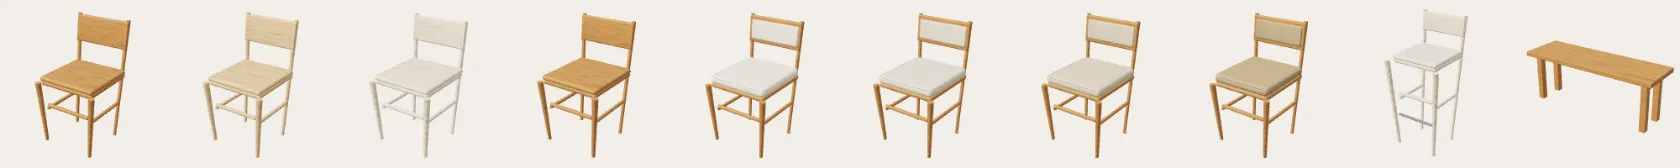
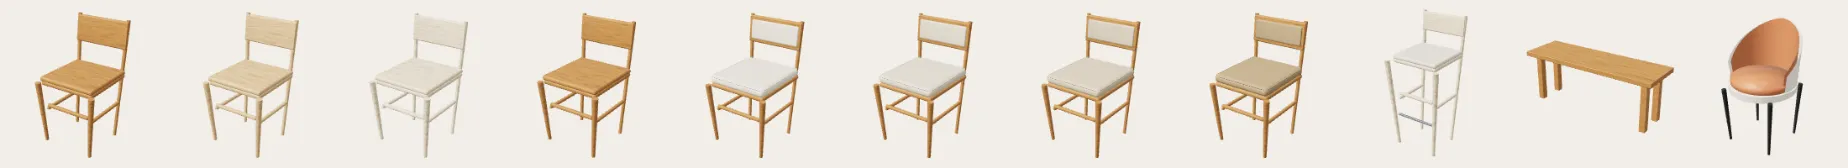
新增岩板餐桌（板式桌腳，預設擺玻璃花瓶插枝葉、托盤擺飾）與皮革扶手餐椅
Claude-Session: https://claude.ai/code/session_01DPbMHcao9tPiyFSu6sUn7z

Changed region(s): [[0.0, 0.0595, 1.0, 0.9226], [0.8357, 0.0893, 0.8976, 0.2083]]

diff --git a/js/models.js b/js/models.js
@@ -1,8 +1,8 @@
 // 以程式產生的 3D 家具模型。每件家具都依型錄的實際尺寸（cm）建模，再整體縮成公尺。
 import * as THREE from 'three';
 import { RoundedBoxGeometry } from '../vendor/RoundedBoxGeometry.js';
-import { WOODS, FINISH } from './catalog.js?v=20261118b';
-import * as MT from './mats.js?v=20261118b';
+import { WOODS, FINISH } from './catalog.js?v=20261118c';
+import * as MT from './mats.js?v=20261118c';
 
 function rnd(seed) { let s = seed; return () => (s = (s * 16807) % 2147483647) / 2147483647; }
 function shade(hex, f) { const c = new THREE.Color(hex); c.multiplyScalar(f); return '#' + c.getHexString(); }
@@ -711,8 +711,55 @@ function vase(g, x, y, z, s = 1, color = '#D9D2C4', stems = 0) {
 }
 function books(g, x, y, z, n = 3, ry = 0) { for (let i = 0; i < n; i++) rbox(g, 26 - i * 2, 2.6, 19 - i, MT.flat(['#E9E2D6', '#5E6B7A', '#C9B8A0', '#7C8471'][i % 4], 0.85), x, y + 1.3 + i * 2.6, z, 0.5).rotation.y = ry + i * 0.13; }
 
+// ── 岩板餐桌（參考實景）：圓角白岩板桌面＋深灰薄邊、深灰圓弧板式桌腳；桌上預設放玻璃花瓶插枝葉、托盤擺飾
+function rrShape(w, d, r) { const s = new THREE.Shape(), x = w / 2, z = d / 2; r = Math.min(r, x - 0.1, z - 0.1); s.moveTo(-x + r, -z); s.lineTo(x - r, -z); s.quadraticCurveTo(x, -z, x, -z + r); s.lineTo(x, z - r); s.quadraticCurveTo(x, z, x - r, z); s.lineTo(-x + r, z); s.quadraticCurveTo(-x, z, -x, z - r); s.lineTo(-x, -z + r); s.quadraticCurveTo(-x, -z, -x + r, -z); return s; }
+function slabXZ(g, shape, t, m, y) { const geo = new THREE.ExtrudeGeometry(shape, { depth: t, bevelEnabled: true, bevelSize: Math.min(0.6, t * 0.3), bevelThickness: Math.min(0.6, t * 0.3), bevelSegments: 2, curveSegments: 10 }); geo.rotateX(Math.PI / 2); return mesh(g, geo, m, 0, y + t, 0); }
+function branchTree(g, x, y, z, H, seed = 1) {
+  let rs = seed * 9301 + 49297; const rnd = () => ((rs = (rs * 9301 + 49297) % 233280) / 233280);
+  const bark = MT.flat('#5B4636', 0.85), up = new THREE.Vector3(0, 1, 0), leaves = [];
+  const seg = (p0, dir, len, r, dep) => {
+    const p1 = p0.clone().addScaledVector(dir, len), m = mesh(g, new THREE.CylinderGeometry(r * 0.72, r, len, 6), bark, (p0.x + p1.x) / 2, (p0.y + p1.y) / 2, (p0.z + p1.z) / 2); m.quaternion.setFromUnitVectors(up, dir); m.castShadow = true;
+    if (dep <= 3) for (let k = 0; k < (dep === 0 ? 12 : dep === 1 ? 9 : 5); k++) { const t = 0.25 + rnd() * 0.75; leaves.push([p0.clone().lerp(p1, t).add(new THREE.Vector3((rnd() - 0.5) * 7, (rnd() - 0.3) * 5, (rnd() - 0.5) * 7)), rnd() * 6.28, rnd()]); }
+    if (dep === 0) return;
+    const n = dep >= 3 ? 2 : 3;
+    for (let k = 0; k < n; k++) { const a = rnd() * 6.28, sp = 0.55 + rnd() * 0.6, nd = dir.clone().multiplyScalar(1.1).add(new THREE.Vector3(Math.cos(a) * sp, 0.25, Math.sin(a) * sp)).normalize(); seg(p1, nd, len * (0.74 + rnd() * 0.16), r * 0.64, dep - 1); }
+  };
+  seg(new THREE.Vector3(x, y, z), new THREE.Vector3(0.18, 1, 0.06).normalize(), H * 0.3, 1.4, 4);
+  const lg = new THREE.PlaneGeometry(3.6, 1.8); lg.translate(1.8, 0, 0);
+  const im = new THREE.InstancedMesh(lg, twoSided(MT.flat('#FFFFFF', 0.7)), leaves.length), o = new THREE.Object3D(), col = new THREE.Color();
+  leaves.forEach(([p, a, t], i) => { o.position.copy(p); o.rotation.set((t - 0.5) * 1.6, a, -0.4 + t * 0.8); o.scale.setScalar(0.8 + t * 0.5); o.updateMatrix(); im.setMatrixAt(i, o.matrix); im.setColorAt(i, col.set(t > 0.6 ? '#8CC152' : t > 0.3 ? '#5E9A38' : '#4C7F2E')); });
+  im.castShadow = true; g.add(im);
+}
+function slabTable(g, it, o) {
+  const { w, d, h } = it, f = it.color && it.color[0] === '#' ? it.color : '#EFEBE5';
+  const top = it.fin === 'wood' ? MT.wood(f, { rings: 6, gloss: 0.45 }) : it.fin === 'paint' ? MT.gloss(f) : MT.marble(f), base = MT.flat('#55575A', 0.42);
+  slabXZ(g, rrShape(w, d, 11), 2, top, h - 2.6); slabXZ(g, rrShape(w - 1.2, d - 1.2, 10.5), 0.9, MT.flat('#3A3B3D', 0.4), h - 3.6);
+  const bw = w * 0.56, bd = Math.max(26, d * 0.36); slabXZ(g, rrShape(bw, bd, bd / 2 - 0.2), h - 4.2, base, 0);
+  if (!o.decor) return;
+  // 玻璃花瓶＋枝葉
+  const vx = -w * 0.14, vz = -d * 0.05, vh = 40;
+  lathe(g, [[0, 0], [6.5, 0], [7, 2], [7, 4], [6.2, 5], [6.4, vh * 0.55], [6.6, vh - 1], [7, vh]], MT.flat('#7E4A3C', 0.12), vx, h, vz);
+  cyl(g, 7.2, 7.2, 1.2, MT.flat('#7A4A3C', 0.3), vx, h + 3.2, vz, 24); cyl(g, 7.4, 7.4, 1, MT.flat('#7A4A3C', 0.3), vx, h + 6, vz, 24);
+  branchTree(g, vx, h + 4, vz, Math.min(150, 270 - h - 50), 7);
+  // 托盤＋書＋小白公仔
+  const tx = w * 0.3, tz = -d * 0.12; rbox(g, 28, 1.2, 20, MT.flat('#2A2B2D', 0.4), tx, h + 0.6, tz, 0.5).rotation.y = 0.18;
+  rbox(g, 22, 2.6, 16, MT.flat('#EDE6D8', 0.8), tx, h + 2.5, tz, 0.4).rotation.y = 0.12; rbox(g, 20, 2, 14, MT.flat('#8E9AA6', 0.8), tx, h + 4.8, tz, 0.4).rotation.y = 0.24;
+  const fig = MT.flat('#F2F0EC', 0.45), fy = h + 5.8; rbox(g, 5, 7, 3.6, fig, tx, fy + 3.5, tz, 1.6); mesh(g, new THREE.SphereGeometry(3.6, 18, 14), fig, tx, fy + 10, tz); for (const sx of [-1, 1]) { mesh(g, new THREE.SphereGeometry(1.4, 12, 10), fig, tx + sx * 2.8, fy + 13, tz); rbox(g, 1.8, 6, 1.8, fig, tx + sx * 3.4, fy + 3.6, tz, 0.8).rotation.z = sx * 0.3; }
+}
+// ── 皮革扶手餐椅（參考實景）：米白外殼包著焦糖色皮革內襯，椅背往前慢慢降低成扶手；深色細腳＋銅色腳套
+function shellChair(g, it, o) {
+  const { w, d, h } = it, inC = it.fin && it.color && it.color[0] === '#' ? it.color : '#B8714A', inner = it.fin === 'fabric' ? MT.fabric(inC, 2) : MT.leather(inC), outer = MT.leather('#ECE5D9'), leg = MT.flat('#2A2A2C', 0.4), sh = 46, R = w / 2 - 1, zc = -d / 2 + R + 1;
+  for (const sx of [-1, 1]) for (const sz of [-1, 1]) tleg(g, sh - 5, 1.7, 0.9, leg, sx * (w / 2 - 10), zc + sz * (R - 10) + (sz > 0 ? 2 : 0), 0.06, BRASSY());
+  const shell = (r, mat, t0) => { const span = Math.PI * 1.22, H = h - sh + 6, geo = new THREE.CylinderGeometry(r, r * 0.9, H, 40, 8, true, Math.PI - span / 2, span), p = geo.attributes.position;
+    for (let i = 0; i < p.count; i++) { const x = p.getX(i), z = p.getZ(i), y = p.getY(i) + H / 2, a = Math.abs(Math.atan2(x, -z)) / (span / 2), k = 1 - 0.62 * Math.pow(a, 1.6); p.setY(i, y * k); p.setZ(i, z * (1 + 0.04 * y / H)); }
+    geo.computeVertexNormals(); return mesh(g, geo, twoSided(mat), 0, sh - 6 + t0, zc); };
+  shell(R, outer, 0); shell(R - 2.2, inner, 0.5);
+  const sg = new THREE.CylinderGeometry(R - 1, R - 2, 5, 40, 1, false); sg.scale(1, 1, (d - 4) / (2 * R)); mesh(g, sg, outer, 0, sh - 4, zc + 1);
+  const cu = new THREE.CylinderGeometry(R - 3, R - 3, 5, 40); cu.scale(1, 1, (d - 8) / (2 * R)); const c = mesh(g, cu, inner, 0, sh + 0.5, zc + 2); c.geometry = smooth(c.geometry);
+}
 B.table = (g, it, P, o) => {
   const { w, d, v } = it; if (v === 'stoolseat' || v === 'fmirror') return OLD.table(g, it, P);
+  if (v === 'slab') return slabTable(g, it, o);
   const h = v === 'mirror' ? 75 : it.h, f = it.color, marble = f === 'marble', painted = f === 'white' || f === 'black' || f === 'gray', low = h < 62;
   let top = marble ? MT.marble('#EFEBE5') : painted ? MT.gloss(WOODS[f]) : MT.wood(WOODS[f] || WOODS.oak, { rings: 6, gloss: 0.45 }), lg = marble ? BRASSY() : f === 'black' ? MT.metal('#1E1E20', 0.45) : woodOf(f);
   if (f && f[0] === '#' && (it.fin === 'wood' || it.fin === 'paint' || it.fin === 'marble')) {   // 手機上個別選的桌面材質＋顏色
@@ -745,6 +792,7 @@ B.table = (g, it, P, o) => {
 
 B.chair = (g, it, P, o) => {
   const { w, d, h, v } = it; if (v === 'bench') return OLD.chair(g, it, P);
+  if (v === 'shell') return shellChair(g, it, o);
   const hexc = it.color && it.color[0] === '#', pick = hexc && (it.fin === 'wood' || it.fin === 'paint' || it.fin === 'fabric');
   let wm = hexc ? woodOf(P.wood) : woodOf(it.color), f = MT.fabric(hexc ? it.color : '#D9D3C6', 2, 'boucle'); const sh = v === 'bar' ? 71 : 44.5;
   if (pick) { wm = it.fin === 'wood' ? MT.wood(it.color, { rings: 6, gloss: 0.35 }) : it.fin === 'paint' ? MT.gloss(it.color) : MT.fabric(it.color, 2, 'boucle'); f = it.fin === 'fabric' ? wm : MT.fabric(shade(it.color, 1.12), 2, 'boucle'); }   // 整張椅子同一個顏色

diff --git a/js/plan.js b/js/plan.js
@@ -1,9 +1,9 @@
 // 新板東京 A1（11F）：依平面圖描出的牆、窗、地坪（單位 cm）
-import { PLAN_HH } from './plan-hh.js?v=20261118b';
-import { PLAN_XS } from './plan-xs.js?v=20261118b';
-import { PLAN_WX_A1 } from './plan-wx-a1.js?v=20261118b';
-import { PLAN_WX_A2 } from './plan-wx-a2.js?v=20261118b';
-import { PLAN_WX_B1 } from './plan-wx-b1.js?v=20261118b';
+import { PLAN_HH } from './plan-hh.js?v=20261118c';
+import { PLAN_XS } from './plan-xs.js?v=20261118c';
+import { PLAN_WX_A1 } from './plan-wx-a1.js?v=20261118c';
+import { PLAN_WX_A2 } from './plan-wx-a2.js?v=20261118c';
+import { PLAN_WX_B1 } from './plan-wx-b1.js?v=20261118c';
 
 const PLAN_A1 = {"H":280,"W":1248,"D":909.3,"walls":[[108.0,0.0,232.0,16.0,0,280],[232.0,0.0,372.0,16.0,0,70],[232.0,0.0,372.0,16.0,240,280],[372.0,0.0,461.3,16.0,0,280],[461.3,0.0,641.3,16.0,0,70],[461.3,0.0,641.3,16.0,240,280],[641.3,0.0,725.3,16.0,0,280],[725.3,0.0,905.3,16.0,0,70],[725.3,0.0,905.3,16.0,240,280],[905.3,0.0,1028.0,16.0,0,280],[108.0,0.0,205.3,106.7,0,280],[925.3,0.0,1028.0,96.0,0,280],[108.0,846.7,208.0,909.3,0,280],[928.0,846.7,1028.0,909.3,0,280],[108.0,106.7,125.3,329.3,0,280],[0.0,329.3,14.7,346.7,0,280],[14.7,329.3,78.7,346.7,0,120],[14.7,329.3,78.7,346.7,180,280],[0.0,346.7,14.7,669.3,0,280],[158.7,426.7,172.0,606.7,0,280],[172.0,426.7,561.3,440.0,0,280],[238.7,440.0,245.3,606.7,0,280],[548.0,440.0,558.7,520.0,0,280],[548.0,520.0,558.7,606.7,210,280],[554.7,326.7,565.3,426.7,210,280],[436.0,16.0,448.0,316.0,0,280],[436.0,316.0,561.3,326.7,0,280],[561.3,316.0,648.0,326.7,210,280],[648.0,16.0,661.3,326.7,0,280],[14.7,606.7,245.3,620.0,0,280],[245.3,606.7,265.3,620.0,0,280],[265.3,606.7,352.0,620.0,210,280],[368.0,606.7,561.3,620.0,0,280],[561.3,606.7,648.0,620.0,210,280],[648.0,606.7,661.3,620.0,0,280],[661.3,606.7,734.7,620.0,210,280],[734.7,606.7,832.0,620.0,0,280],[354.7,620.0,368.0,689.3,0,280],[354.7,689.3,368.0,826.7,0,70],[354.7,689.3,368.0,826.7,240,280],[354.7,826.7,368.0,893.3,0,280],[648.0,620.0,661.3,893.3,0,280],[818.7,620.0,832.0,893.3,0,280],[208.0,893.3,928.0,909.3,0,280],[1028.0,893.3,1248.0,909.3,0,280],[948.0,96.0,968.0,726.7,0,280],[968.0,709.3,1248.0,726.7,0,280],[1234.7,726.7,1248.0,740.0,0,280],[1234.7,740.0,1248.0,846.7,210,280],[1234.7,846.7,1248.0,893.3,0,280],[108.0,620.0,116.0,846.7,0,110],[8.0,661.3,108.0,669.3,0,110],[78.7,329.3,185.3,346.7,0,280],[172.0,346.7,185.3,426.7,210,280],[352.0,606.7,368.0,620.0,0,280]],"cuts":[[25],[28],[26,27],[20],[21],[22,23],[32]],"wins":[[232.0,0.0,372.0,16.0,70,240],[461.3,0.0,641.3,16.0,70,240],[725.3,0.0,905.3,16.0,70,240],[14.7,329.3,78.7,346.7,120,180],[354.7,689.3,368.0,826.7,70,240]],"floors":[[125.3,16.0,436.0,326.7,"main"],[185.3,326.7,561.3,426.7,"main"],[448.0,16.0,648.0,316.0,"main"],[561.3,316.0,648.0,326.7,"main"],[661.3,16.0,948.0,326.7,"main"],[561.3,326.7,948.0,620.0,"main"],[832.0,620.0,948.0,893.3,"main"],[368.0,620.0,648.0,893.3,"main"],[548.0,520.0,558.7,606.7,"main"],[14.7,346.7,158.7,606.7,"bath"],[661.3,620.0,818.7,893.3,"bath"],[172.0,440.0,238.7,606.7,"main"],[245.3,440.0,548.0,606.7,"main"],[948.0,726.7,1234.7,893.3,"main"],[116.0,620.0,354.7,893.3,"balc"],[8.0,620.0,108.0,661.3,"balc"],[265.3,606.7,352.0,620.0,"balc"],[158.7,346.7,172.0,426.7,"bath"],[172.0,346.7,185.3,426.7,"main"]],"slab":[[108.0,0.0,968.0,909.3],[0.0,329.3,108.0,669.3],[968.0,709.3,1248.0,909.3]],"rooms":[{"id":"ld","n":"客餐廳","rs":[[661.3,16.0,948.0,326.7],[561.3,326.7,948.0,620.0]],"r":[561.3,16.0,948.0,620.0]},{"id":"master","n":"主臥","rs":[[125.3,16.0,436.0,326.7],[172.0,326.7,561.3,426.7]],"r":[125.3,16.0,561.3,426.7]},{"id":"bed2","n":"臥室 2","rs":[[448.0,16.0,648.0,326.7]],"r":[448.0,16.0,648.0,326.7]},{"id":"bed3","n":"臥室 3","rs":[[368.0,620.0,648.0,893.3]],"r":[368.0,620.0,648.0,893.3]},{"id":"kitchen","n":"廚房","rs":[[172.0,440.0,558.7,606.7]],"r":[172.0,440.0,558.7,606.7]},{"id":"bath1","n":"主臥衛浴","rs":[[14.7,346.7,172.0,606.7]],"r":[14.7,346.7,172.0,606.7]},{"id":"bath2","n":"客用衛浴","rs":[[661.3,620.0,818.7,893.3]],"r":[661.3,620.0,818.7,893.3]},{"id":"foyer","n":"玄關","rs":[[832.0,620.0,948.0,893.3],[948.0,726.7,1234.7,893.3]],"r":[832.0,620.0,1234.7,893.3]},{"id":"balcony","n":"陽台","rs":[[116.0,620.0,354.7,893.3]],"r":[116.0,620.0,354.7,893.3]}],"defaults":[{"id":"d0","key":"sofa:5","x":900.0,"y":242.7,"r":90},{"id":"d1","key":"coffee:0","x":778.7,"y":242.7,"r":0},{"id":"d2","key":"tvcab:3","x":681.3,"y":233.3,"r":270},{"id":"d3","key":"tv:4","x":666.7,"y":233.3,"r":270},{"id":"d4","key":"rug:2","x":805.3,"y":242.7,"r":90},{"id":"d5","key":"lamp:0","x":925.3,"y":109.3,"r":0},{"id":"d6","key":"plant:3","x":921.3,"y":389.3,"r":0},{"id":"d7","key":"dtable:4","x":793.3,"y":478.7,"r":0},{"id":"d8","key":"chair:0","x":756.0,"y":420.0,"r":0},{"id":"d9","key":"chair:0","x":836.0,"y":420.0,"r":0},{"id":"d10","key":"chair:0","x":756.0,"y":556.0,"r":180},{"id":"d11","key":"chair:0","x":836.0,"y":556.0,"r":180},{"id":"d12","key":"bed:3","x":225.3,"y":189.3,"r":270},{"id":"d13","key":"nstand:1","x":148.0,"y":293.3,"r":270},{"id":"d14","key":"ward:1","x":406.7,"y":166.7,"r":90},{"id":"d15","key":"bed:1","x":505.3,"y":116.0,"r":0},{"id":"d16","key":"desk:1","x":617.3,"y":93.3,"r":90},{"id":"d17","key":"dchair:0","x":572.0,"y":93.3,"r":270},{"id":"d18","key":"shelf:1","x":632.0,"y":240.0,"r":90},{"id":"d19","key":"bed:3","x":548.0,"y":806.7,"r":90},{"id":"d20","key":"desk:1","x":398.7,"y":757.3,"r":270},{"id":"d21","key":"dchair:1","x":436.0,"y":757.3,"r":90},{"id":"d22","key":"ward:3","x":412.0,"y":862.7,"r":180},{"id":"d23","key":"cook:0","x":289.3,"y":470.7,"r":0},{"id":"d24","key":"hood:1","x":289.3,"y":465.3,"r":0},{"id":"d25","key":"kcab:2","x":357.3,"y":470.7,"r":0},{"id":"d26","key":"sink:2","x":426.7,"y":470.7,"r":0},{"id":"d27","key":"fridge:2","x":512.0,"y":477.3,"r":0},{"id":"d28","key":"tub:2","x":85.3,"y":570.7,"r":0},{"id":"d29","key":"toilet:1","x":50.7,"y":476.0,"r":270},{"id":"d30","key":"vanity:0","x":38.7,"y":384.0,"r":270},{"id":"d31","key":"mirror:0","x":22.7,"y":384.0,"r":270},{"id":"d32","key":"tub:3","x":740.0,"y":858.7,"r":0},{"id":"d33","key":"toilet:1","x":782.7,"y":720.0,"r":90},{"id":"d34","key":"vanity:0","x":788.0,"y":645.3,"r":0},{"id":"d35","key":"mirror:0","x":788.0,"y":628.0,"r":0},{"id":"d36","key":"washer:0","x":208.0,"y":656.0,"r":0},{"id":"d37","key":"shoe:4","x":1098.7,"y":746.7,"r":0},{"id":"d38","key":"plant:1","x":1205.3,"y":873.3,"r":0}],"door":[1237.3,740.0,1245.3,846.7],"start":[1175,793],"doors":[[1234.7,740.0,106.7,90,180],[648.0,321.3,86.7,180,270],[560.0,426.7,100.0,270,180],[553.3,606.7,86.7,270,180],[178.7,349.3,74.7,90,180],[352.0,613.3,86.7,180,90],[648.0,613.3,86.7,180,90],[661.3,613.3,73.3,0,90]]};
 

diff --git a/js/phone.js b/js/phone.js
@@ -1,7 +1,7 @@
 // 手機端：風格、平面圖編輯器、3D 家具型錄、人偶、3D 導覽搖桿
-import { PLAN, UNIT, setUnit, roomAt, setCuts, cutRects } from './plan.js?v=20261118b';
-import { CATS, GROUPS, PEOPLE, getItem, STYLES, FLOOR_GROUPS, FLOORS, WALL_GROUPS, parseWall, FINISH, finishOf, lenRange, elevRange, resolvePeople, keepOffBeds } from './catalog.js?v=20261118b';
-import * as ART from './planart.js?v=20261118b';
+import { PLAN, UNIT, setUnit, roomAt, setCuts, cutRects } from './plan.js?v=20261118c';
+import { CATS, GROUPS, PEOPLE, getItem, STYLES, FLOOR_GROUPS, FLOORS, WALL_GROUPS, parseWall, FINISH, finishOf, lenRange, elevRange, resolvePeople, keepOffBeds } from './catalog.js?v=20261118c';
+import * as ART from './planart.js?v=20261118c';
 
 const $ = (id) => document.getElementById(id);
 const esc = (s) => String(s).replace(/[&<>"]/g, (c) => ({ '&': '&amp;', '<': '&lt;', '>': '&gt;', '"': '&quot;' }[c]));
@@ -452,7 +452,7 @@ function thumbStrip(key, sk) {
 async function fillThumbs() {
   const run = ++thumbRun, need = [...document.querySelectorAll('#list img[data-th]')];
   if (!need.length) return;   // 全部都有現成圖片：不用載入 3D 繪圖程式
-  try { thumbMod = thumbMod || await import('./thumbs.js?v=20261118b'); } catch (e) { return; }
+  try { thumbMod = thumbMod || await import('./thumbs.js?v=20261118c'); } catch (e) { return; }
   for (const img of need) {
     if (run !== thumbRun) return;
     const k = img.dataset.th;
@@ -485,7 +485,7 @@ function warmThumbs() {
 async function warmStep() {
   if (!warmList.length) return;
   if (S.drag || (S.st && S.st.mode === 'tour') || Date.now() - lastTouch < 1500) { warmTimer = setTimeout(warmStep, 600); return; }   // 手指在操作時不畫縮圖，按鈕才不會卡
-  try { thumbMod = thumbMod || await import('./thumbs.js?v=20261118b'); } catch (e) { return; }
+  try { thumbMod = thumbMod || await import('./thumbs.js?v=20261118c'); } catch (e) { return; }
   const k = warmList.shift();
   if (!thumbCache.has(k)) { const [key, sk] = k.split('@'); try { thumbCache.set(k, thumbMod.renderThumb(getItem(key, sk), sk)); } catch (e) { thumbCache.set(k, ''); } }
   warmTimer = setTimeout(warmStep, S.sheet ? 40 : 220);   // 型錄沒打開時慢慢畫就好

diff --git a/js/catalog.js b/js/catalog.js
@@ -37,11 +37,13 @@ export const CATS = [
     ['2 人餐桌', 80, 80, 75, 'oak'], ['4 人餐桌', 120, 75, 75, 'oak'], ['4 人餐桌', 130, 80, 75, 'walnut'], ['4–6 人餐桌', 140, 80, 75, 'ash'],
     ['6 人餐桌', 150, 90, 75, 'oak'], ['6 人餐桌', 160, 90, 75, 'walnut'], ['6–8 人餐桌', 180, 90, 75, 'marble'], ['8 人餐桌', 200, 100, 75, 'walnut'],
     ['4 人圓桌', 110, 110, 75, 'oak', 'round'], ['6 人圓桌', 130, 130, 75, 'marble', 'round'],
-    ['2 人小方桌', 60, 60, 75, 'oak'], ['2 人小圓桌', 70, 70, 75, 'white', 'round']] },
+    ['2 人小方桌', 60, 60, 75, 'oak'], ['2 人小圓桌', 70, 70, 75, 'white', 'round'],
+    ['岩板餐桌（6 人）', 180, 90, 75, '#EFEBE5', 'slab'], ['岩板餐桌（4 人）', 150, 85, 75, '#EFEBE5', 'slab']] },
   { id: 'chair', n: '餐椅', g: '餐廳', t: 'chair', items: [
     ['實木餐椅', 45, 50, 82, 'oak'], ['實木餐椅', 45, 50, 82, 'walnut'], ['實木餐椅', 46, 52, 80, 'black'], ['實木餐椅', 46, 52, 80, 'white'],
     ['布面餐椅', 48, 55, 84, '#B9B4AA', 'pad'], ['布面餐椅', 48, 55, 84, '#5E6B7A', 'pad'], ['布面餐椅', 48, 55, 84, '#7C8471', 'pad'],
-    ['皮面餐椅', 47, 54, 83, '#7A4E32', 'pad'], ['吧台椅', 42, 45, 100, 'black', 'bar'], ['長凳', 120, 38, 45, 'oak', 'bench']] },
+    ['皮面餐椅', 47, 54, 83, '#7A4E32', 'pad'], ['吧台椅', 42, 45, 100, 'black', 'bar'], ['長凳', 120, 38, 45, 'oak', 'bench'],
+    ['皮革扶手餐椅', 54, 56, 84, '#B8714A', 'shell']] },
   { id: 'bed', n: '床', g: '臥室', t: 'bed', items: [
     ['單人床 3 尺', 99, 200, 95, '#D9D4CA'], ['單人加大 3.5 尺', 114, 200, 100, '#C9D6DF'], ['單人加大 3.5 尺（軟床頭）', 114, 202, 110, '#B9B4AA', 'soft'],
     ['雙人床 5 尺', 160, 200, 100, '#E3DED4'], ['雙人床 5 尺（軟床頭）', 160, 202, 115, '#8E9AA6', 'soft'], ['雙人加大 6 尺', 190, 200, 100, '#D9D4CA'],

diff --git a/js/host.js b/js/host.js
@@ -1,10 +1,10 @@
 // 大螢幕（電腦）端：3D 場景、遊戲流程、手機連線
 import * as THREE from 'three';
 import { RoomEnvironment } from '../vendor/RoomEnvironment.js';
-import { PLAN, UNIT, UNITS, setUnit, roomAt, setCuts, cutRects } from './plan.js?v=20261118b';
-import { getItem, STYLES, FLOORS, WALL_GROUPS, parseWall, FINISH, finishOf, lenRange, elevRange, wallSegs, doorGap, resolvePeople, keepOffBeds } from './catalog.js?v=20261118b';
-import { buildItem, buildPerson, M } from './models.js?v=20261118b';
-import * as MT from './mats.js?v=20261118b';
+import { PLAN, UNIT, UNITS, setUnit, roomAt, setCuts, cutRects } from './plan.js?v=20261118c';
+import { getItem, STYLES, FLOORS, WALL_GROUPS, parseWall, FINISH, finishOf, lenRange, elevRange, wallSegs, doorGap, resolvePeople, keepOffBeds } from './catalog.js?v=20261118c';
+import { buildItem, buildPerson, M } from './models.js?v=20261118c';
+import * as MT from './mats.js?v=20261118c';
 import { EffectComposer } from '../vendor/jsm/postprocessing/EffectComposer.js';
 import { RenderPass } from '../vendor/jsm/postprocessing/RenderPass.js';
 import { GTAOPass } from '../vendor/jsm/postprocessing/GTAOPass.js';

diff --git a/js/thumbs.js b/js/thumbs.js
@@ -1,9 +1,9 @@
 // 手機型錄用的 3D 縮圖：把每件家具的 3D 模型算成一張小圖
 import * as THREE from 'three';
 import { RoomEnvironment } from '../vendor/RoomEnvironment.js';
-import { STYLES } from './catalog.js?v=20261118b';
-import { buildItem, buildPerson } from './models.js?v=20261118b';
-import { setTexSize } from './mats.js?v=20261118b';
+import { STYLES } from './catalog.js?v=20261118c';
+import { buildItem, buildPerson } from './models.js?v=20261118c';
+import { setTexSize } from './mats.js?v=20261118c';
 setTexSize(256);
 
 let R = null, scene, cam;

diff --git a/js/planart.js b/js/planart.js
@@ -1,6 +1,6 @@
 // 手機平面圖的繪製：有材質的地板、粗黑牆、門弧線，以及每種家具的俯視圖（單位 cm，等比例）
-import { PLAN } from './plan.js?v=20261118b';
-import { STYLES, FLOORS, planColor, wallSegs, doorGap } from './catalog.js?v=20261118b';
+import { PLAN } from './plan.js?v=20261118c';
+import { STYLES, FLOORS, planColor, wallSegs, doorGap } from './catalog.js?v=20261118c';
 
 const INK = '#4A4038';
 function tint(hex, f) {   // f > 1 變亮，f < 1 變暗

diff --git a/index.html b/index.html
@@ -85,6 +85,6 @@
   <div id="tip" class="card">3D 畫面為示意，家具與裝潢非交屋附贈，實際以合約為準。</div>
 </div>
 
-<script type="module" src="./js/host.js?v=20261118b"></script>
+<script type="module" src="./js/host.js?v=20261118c"></script>
 </body>
 </html>

diff --git a/phone.html b/phone.html
@@ -189,6 +189,6 @@
   <div class="chips" id="cats"></div>
   <div id="list"></div>
 </div>
-<script type="module" src="./js/phone.js?v=20261118b"></script>
+<script type="module" src="./js/phone.js?v=20261118c"></script>
 </body>
 </html>
